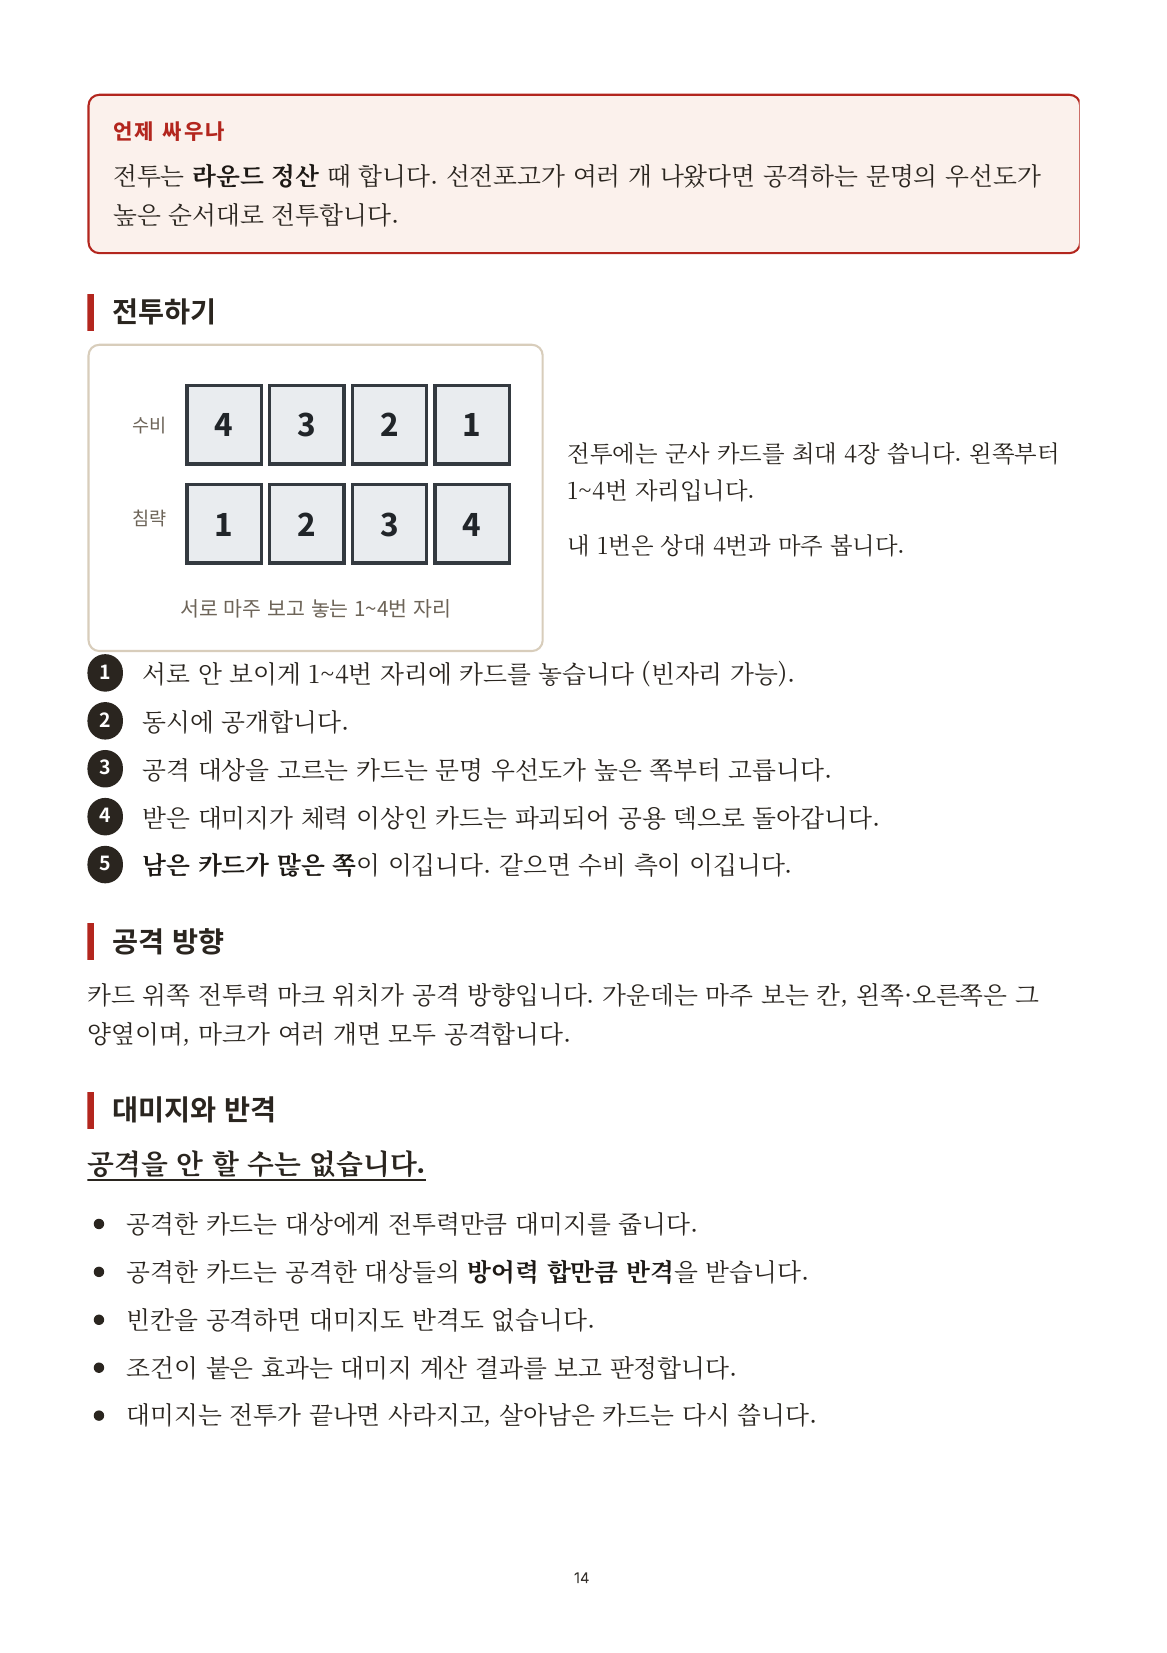
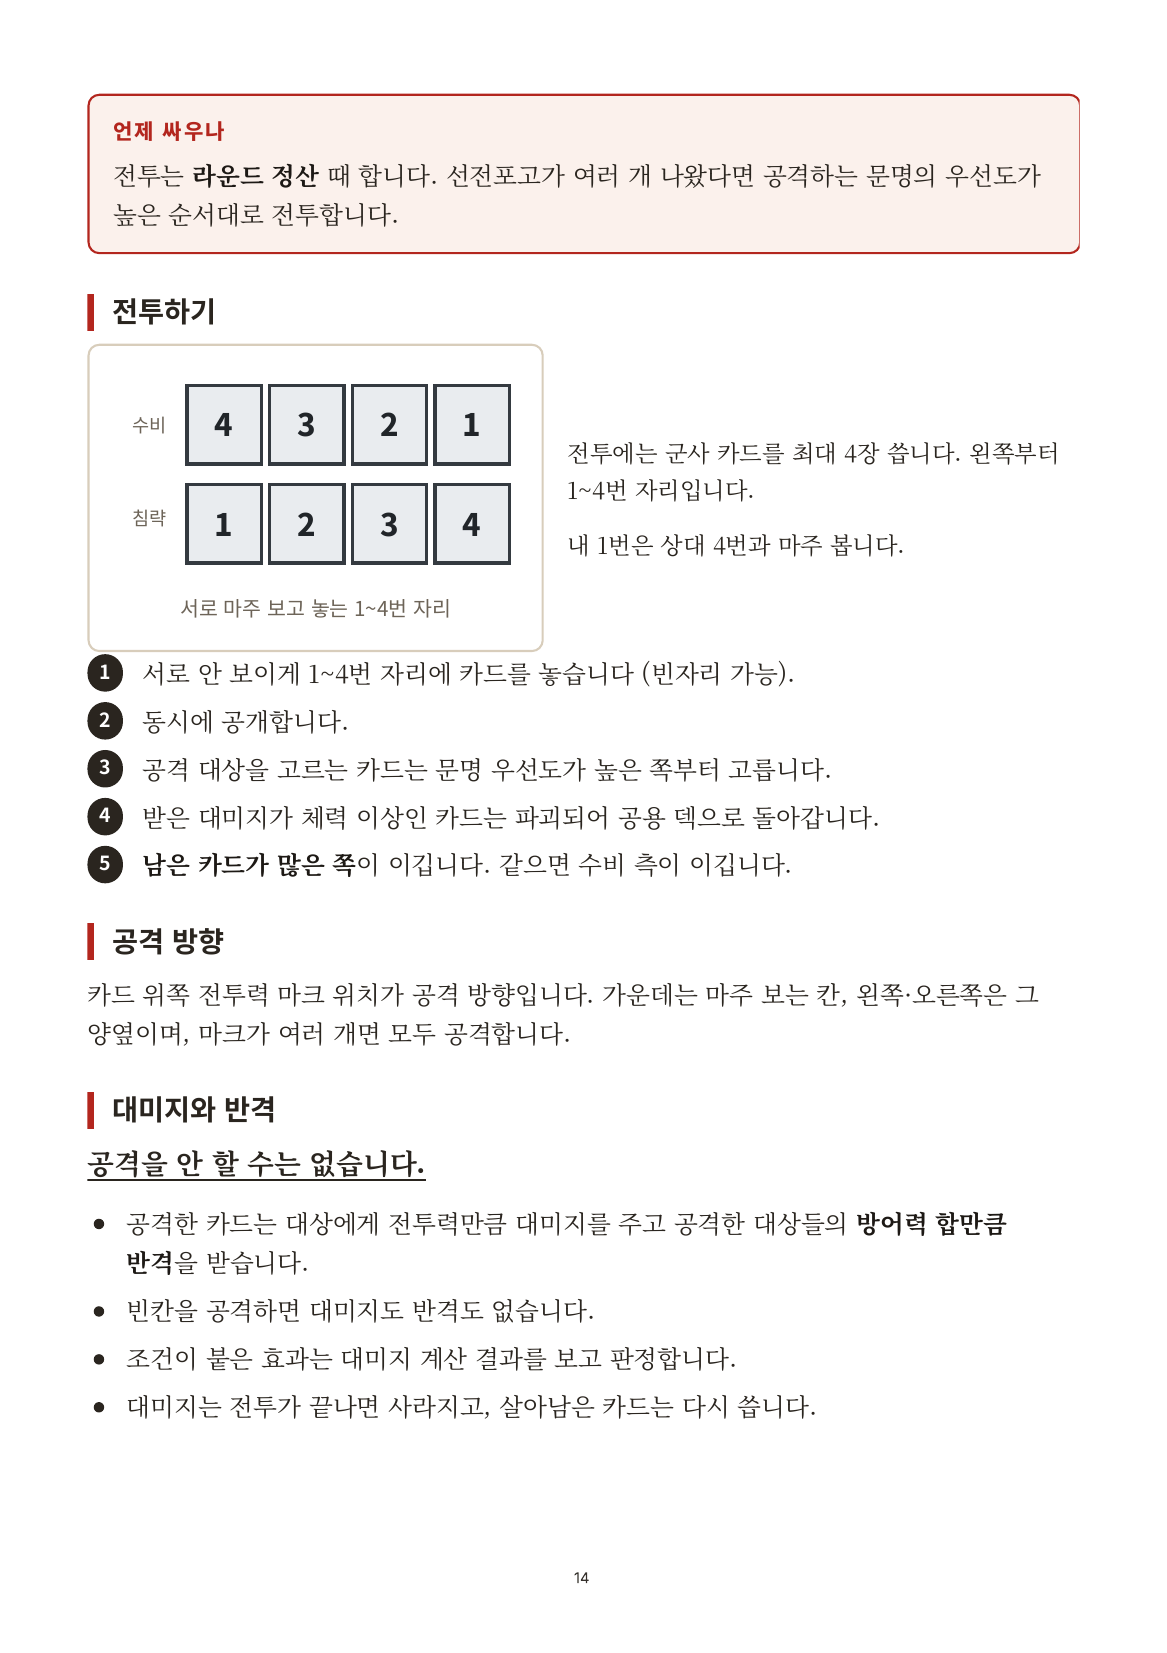
규칙서: 대미지와 반격 두 문장을 한 문장으로
Claude-Session: https://claude.ai/code/session_01LEwiRiXRJPjckZxHM1aEbm

Changed region(s): [[0.0617, 0.7405, 0.7095, 0.8639], [0.8021, 0.7096, 0.8329, 0.7405], [0.7404, 0.7096, 0.7712, 0.7405]]

diff --git a/docs/rulebook/source/part3.html b/docs/rulebook/source/part3.html
@@ -70,8 +70,7 @@
   <h3>대미지와 반격</h3>
   <p class="u" style="font-weight:700; font-size:10pt">공격을 안 할 수는 없습니다.</p>
   <ul>
-    <li>공격한 카드는 대상에게 전투력만큼 대미지를 줍니다.</li>
-    <li>공격한 카드는 공격한 대상들의 <b>방어력 합만큼 반격</b>을 받습니다.</li>
+    <li>공격한 카드는 대상에게 전투력만큼 대미지를 주고 공격한 대상들의 <b>방어력 합만큼 반격</b>을 받습니다.</li>
     <li>빈칸을 공격하면 대미지도 반격도 없습니다.</li>
     <li>조건이 붙은 효과는 대미지 계산 결과를 보고 판정합니다.</li>
     <li>대미지는 전투가 끝나면 사라지고, 살아남은 카드는 다시 씁니다.</li>
